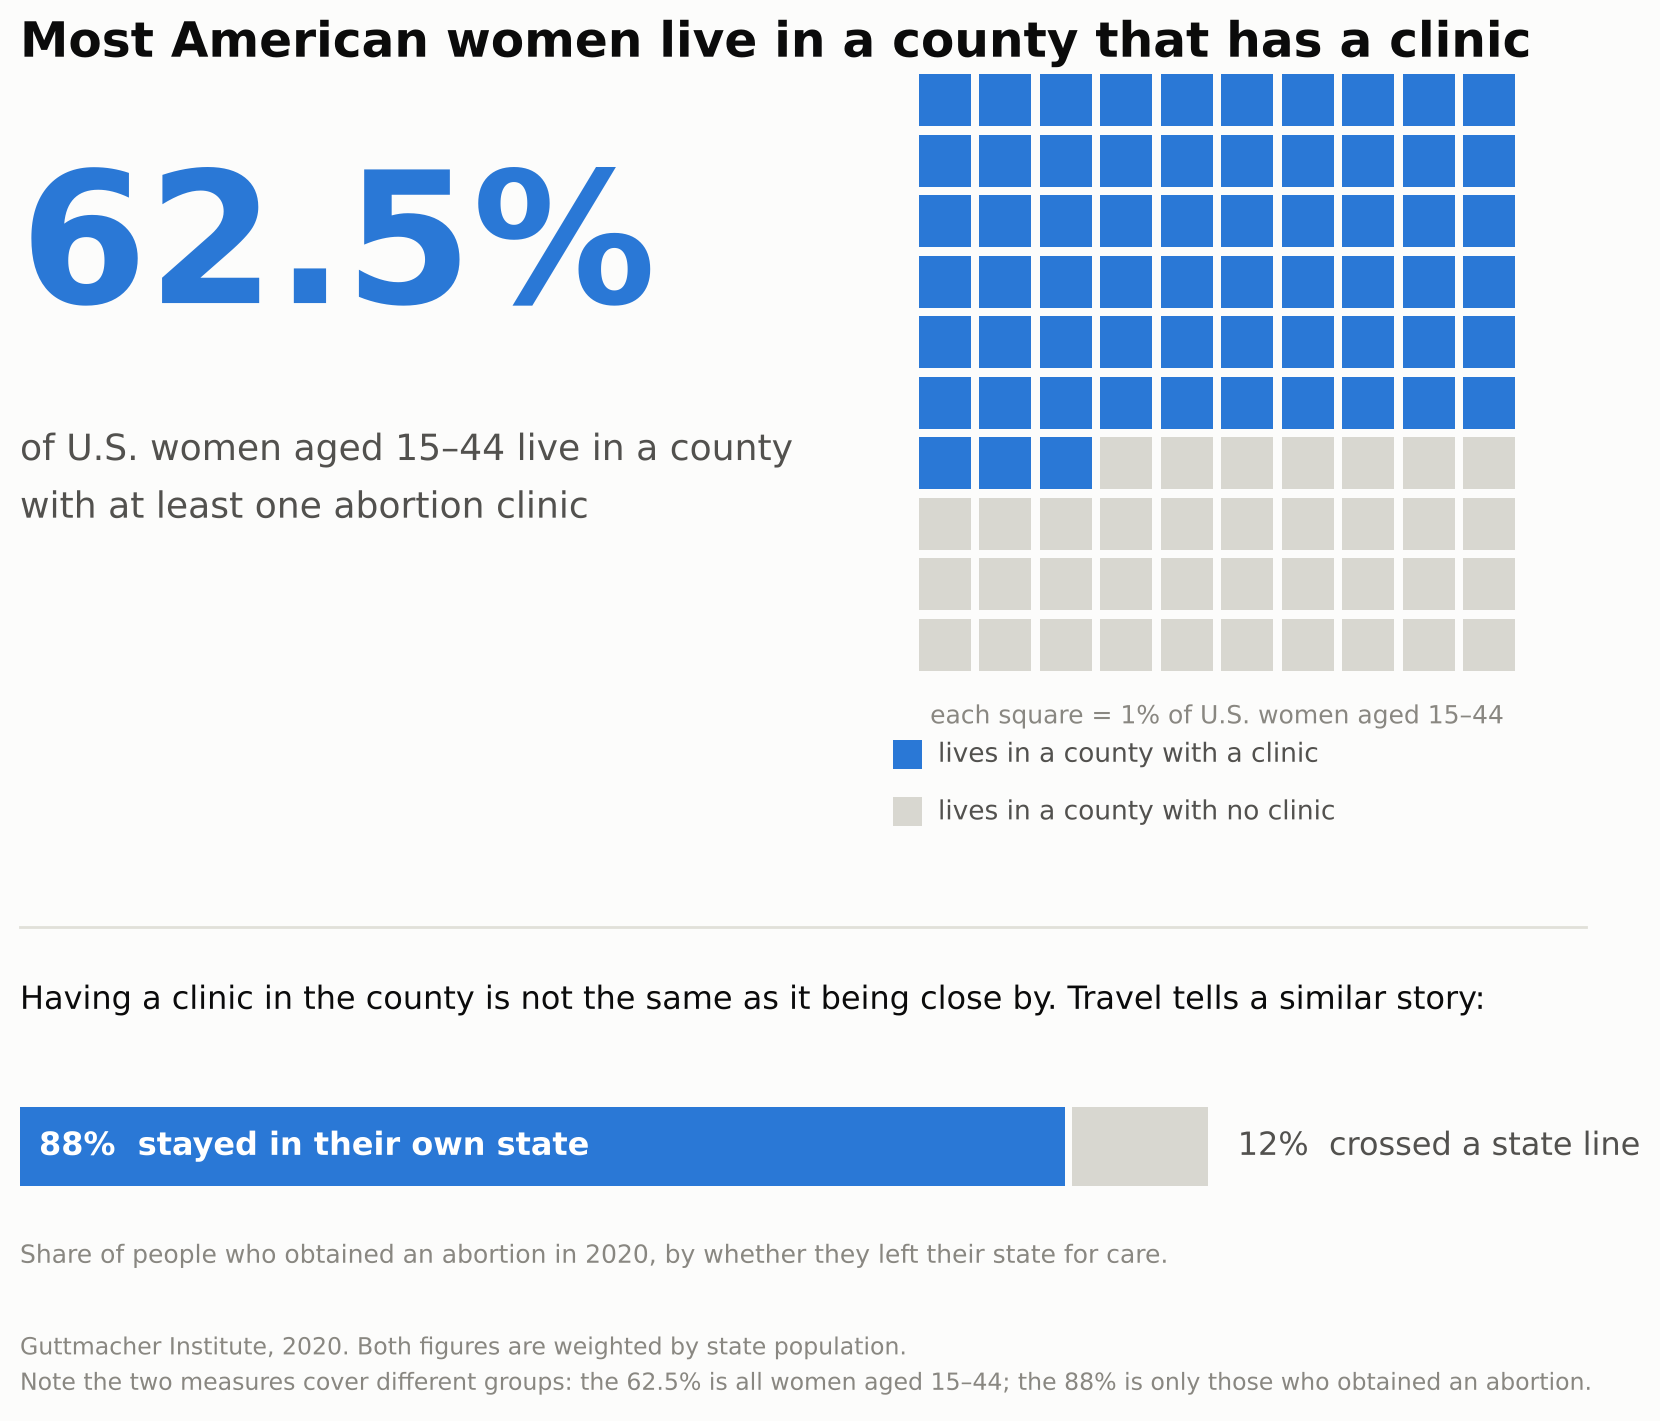
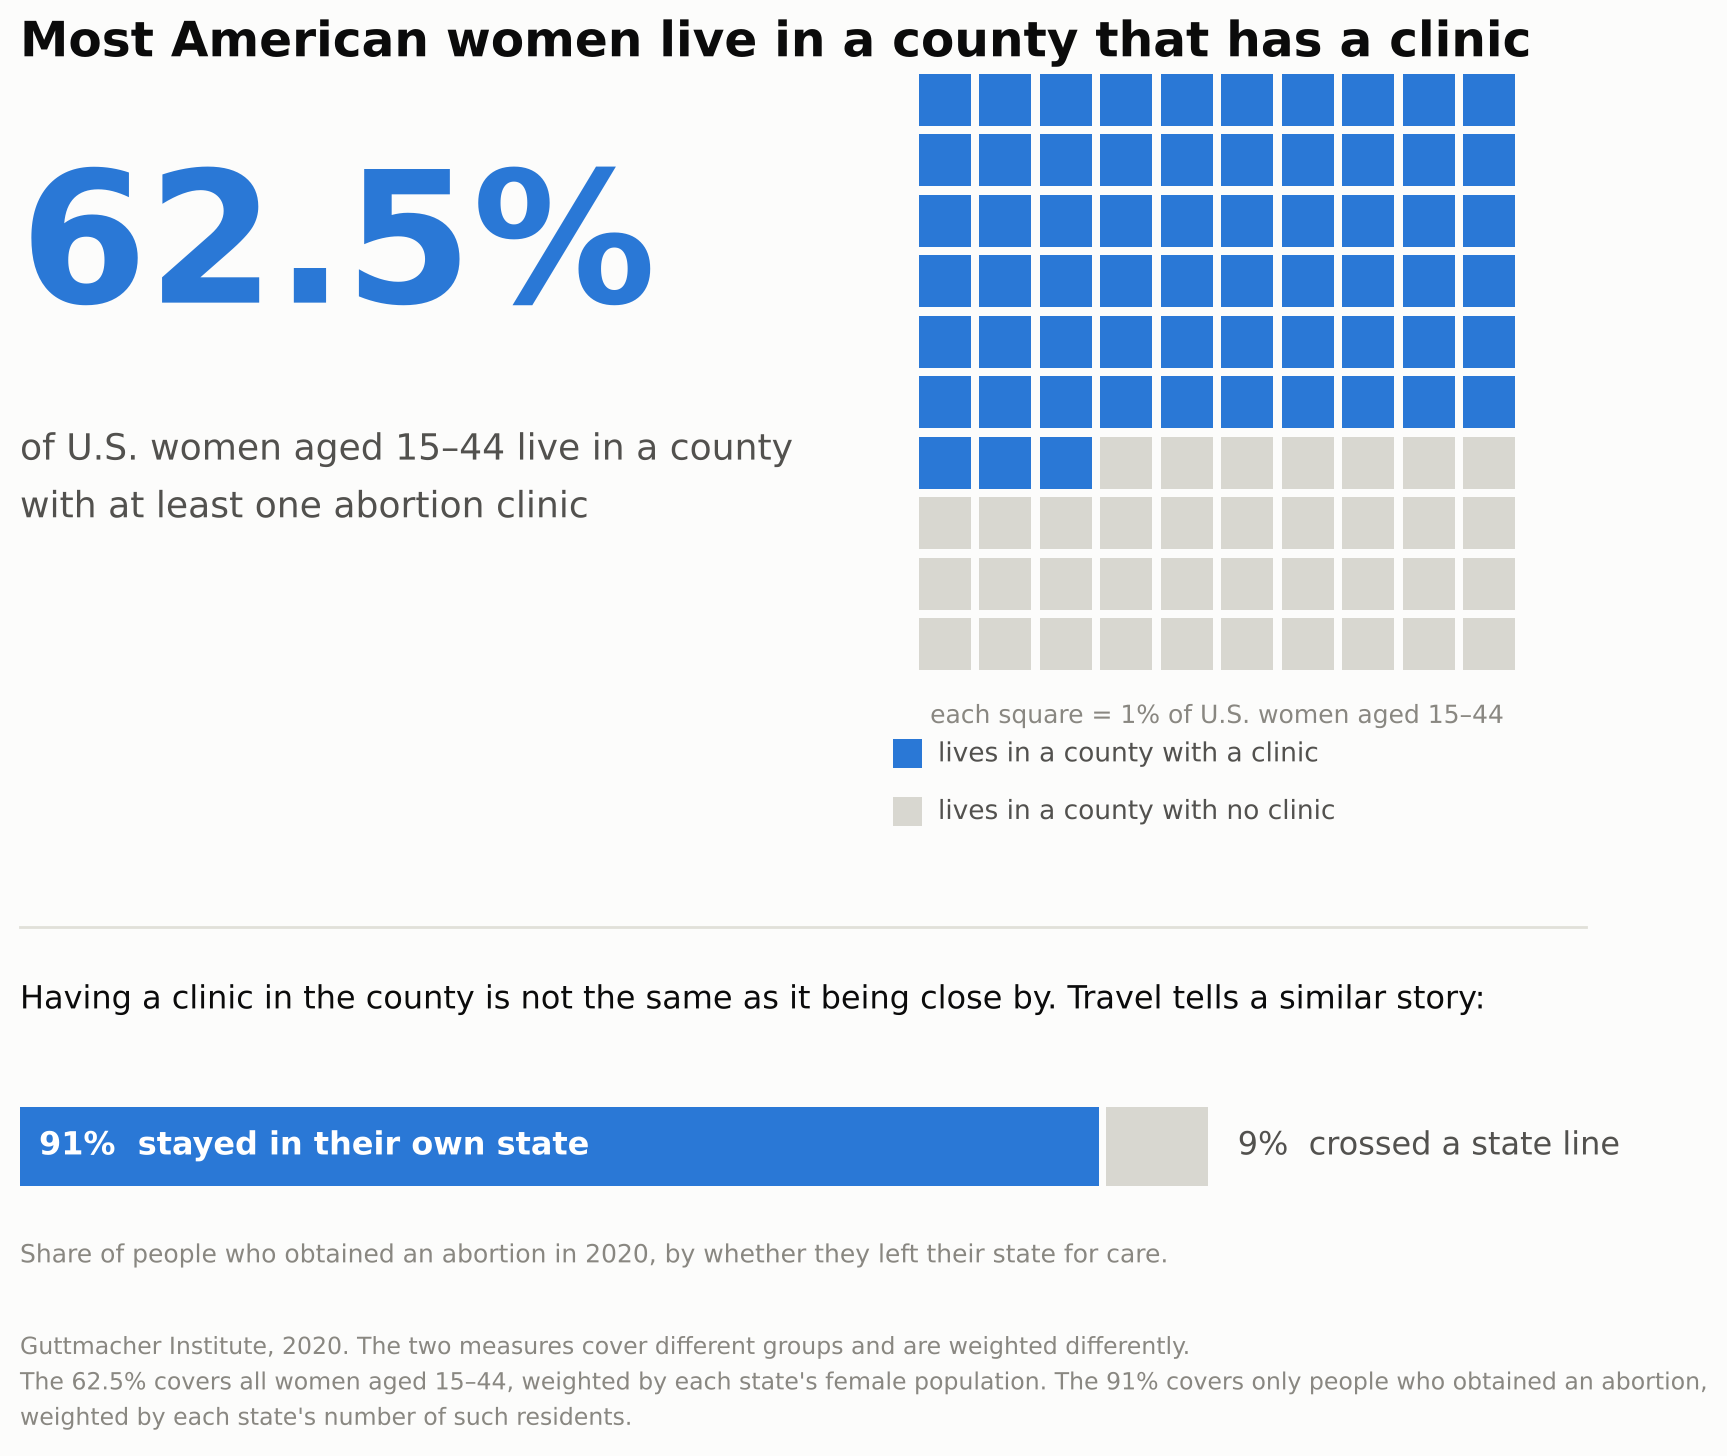
fix

diff --git a/project2/index.html b/project2/index.html
@@ -206,79 +206,16 @@
                 <h3>FOR the Proposition</h3>
 
                 <figure>
-                    <img
-                        src="pro_map.png"
-                        alt="Choropleth map of the United States shaded by the percentage of each state's counties that have no abortion clinic in 2020. Most states are dark red, in the 90 percent or higher band."
-                    />
-                    <figcaption>
-                        <strong>Most of America has no abortion clinic.</strong>
-                        Percentage of each state's counties with no known
-                        abortion clinic in 2020. In the average state, 78% of
-                        counties have none. Source: Guttmacher Institute, 2020.
-                    </figcaption>
+                    <img src="IMAGE_FILENAME" alt="" />
+                    <figcaption>BRIEF CAPTION HERE.</figcaption>
                 </figure>
 
                 <p>Design Decisions and Rationale:</p>
 
-                <div class="todo">
-                    <strong>Fei — please confirm or rewrite these five.</strong>
-                    They are drafted from the checkpoint write-up and the scores
-                    are a starting point. The rubric asks each decision to say
-                    what you considered and rejected, which only you can supply.
-                </div>
-
-                <ul class="decisions">
-                    <li>
-                        <strong>Counting counties rather than women</strong>
-                        <span class="score">−1.5</span><br />
-                        The map shows the share of each state's counties with no
-                        clinic. Most counties are rural and thinly populated
-                        while clinics sit in cities, so counting counties
-                        produces 78% where counting women aged 15–44 produces
-                        37.5%. Both figures are in the dataset; this one was
-                        chosen because it is the larger. The against side made
-                        the opposite choice from the same two columns.
-                    </li>
-                    <li>
-                        <strong>Map area as the encoding</strong>
-                        <span class="score">−1.5</span><br />
-                        A choropleth gives every state the visual weight of its
-                        land area. Montana, Wyoming and the Dakotas dominate the
-                        image despite holding very few people, while small,
-                        populous states with good access (Connecticut, New
-                        Jersey, Rhode Island) are too small to read and had to
-                        be listed off to the side. A cartogram scaled by
-                        population would have shown the opposite impression.
-                    </li>
-                    <li>
-                        <strong>Red sequential colour scale</strong>
-                        <span class="score">−1</span><br />
-                        Darker red marks a higher share of counties without a
-                        clinic. Red reads as danger or warning rather than as a
-                        neutral magnitude, so the map feels like an alarm before
-                        any number is read.
-                    </li>
-                    <li>
-                        <strong>Headline wording</strong>
-                        <span class="score">−2</span><br />
-                        "Most of America has no abortion clinic" claims more
-                        than the data shows. The 78% is an unweighted mean of 51
-                        state percentages — not a national share of counties,
-                        and certainly not a share of people. The subtitle states
-                        the real measure, but the headline is what most readers
-                        take away.
-                    </li>
-                    <li>
-                        <strong>Per-state value labels and a binned legend</strong>
-                        <span class="score">+2</span><br />
-                        Every state carries its own percentage and the legend
-                        names explicit ranges, so a reader can check any
-                        individual state instead of estimating from colour.
-                        States too small to label are listed beside the map so
-                        none are silently dropped. This was added after feedback
-                        that the colour scheme alone made states
-                        indistinguishable.
-                    </li>
+                <ul>
+                    <li>RATIONALE_1</li>
+                    <li>RATIONALE_2</li>
+                    <li>RATIONALE_3</li>
                 </ul>
             </section>
 
@@ -288,7 +225,7 @@
                 <figure>
                     <img
                         src="con_hero.png"
-                        alt="A large figure reading 62.5 percent beside a grid of 100 squares, 63 of them filled blue, showing the share of U.S. women aged 15 to 44 who live in a county with at least one abortion clinic. Below, a bar shows 88 percent of people who obtained an abortion in 2020 stayed in their own state and 12 percent crossed a state line."
+                        alt="A large figure reading 62.5 percent beside a grid of 100 squares, 63 of them filled blue, showing the share of U.S. women aged 15 to 44 who live in a county with at least one abortion clinic. Below, a bar shows 91 percent of people who obtained an abortion in 2020 stayed in their own state and 9 percent crossed a state line."
                     />
                     <figcaption>
                         <strong
@@ -298,7 +235,7 @@
                         Among U.S. women aged 15–44, 62.5% live in a county with
                         at least one abortion clinic, weighted by each state's
                         female population across the 50 states and DC. Below, of
-                        the people who obtained an abortion in 2020, 88% did so
+                        the people who obtained an abortion in 2020, 91% did so
                         without leaving their state. Source: Guttmacher
                         Institute, 2020.
                     </figcaption>
@@ -380,13 +317,20 @@
                         same as "a clinic close to me." We rewrote the headline
                         to say literally what the data says, and rather than drop
                         the question we answered it with the one behavioural
-                        column available: 88% of people who obtained an abortion
-                        in 2020 did so without crossing a state line. We also
-                        flag in the figure that the two measures cover different
-                        groups — all women aged 15–44 for the 62.5%, only those
-                        who obtained an abortion for the 88% — because sliding
-                        between two populations inside one figure would otherwise
-                        be a fourth deceptive move.
+                        column available: 91% of people who obtained an abortion
+                        in 2020 did so without crossing a state line. Our first
+                        attempt at this number weighted the travel column by each
+                        state's female population and got 88%; that is the wrong
+                        denominator, because the column is a share of the people
+                        who obtained an abortion, not of all women. Re-weighting
+                        by that count gives 91%, which matches Guttmacher's own
+                        published finding that nearly one in ten people travelled
+                        across state lines. We also flag in the figure that the
+                        two measures cover different groups and are weighted
+                        differently — all women aged 15–44 for the 62.5%, only
+                        those who obtained an abortion for the 91% — because
+                        sliding between two populations inside one figure would
+                        otherwise be a fourth deceptive move.
                     </li>
                 </ul>
             </section>

diff --git a/Alina/make_con_chart.py b/Alina/make_con_chart.py
@@ -17,7 +17,10 @@ plt.rcParams.update({"font.family": "DejaVu Sans", "figure.facecolor": SURFACE,
 df = pd.read_csv("abortion_clean.csv")
 w = df.women_15_44_2020
 pct_with = 100 - (df.pct_women_no_clinic_2020 * w).sum() / w.sum()
-pct_instate = 100 - (df.pct_traveled_out_of_state_2020 * w).sum() / w.sum()
+# The travel column is a share OF RESIDENTS WHO OBTAINED AN ABORTION, so it is
+# weighted by that count, not by the female population.
+ab = df.abortions_residence_2020
+pct_instate = 100 - (df.pct_traveled_out_of_state_2020 * ab).sum() / ab.sum()
 
 
 def swatch(fig, x, y, color, label, size=0.016):
@@ -79,9 +82,11 @@ def build(path="con_1_hero.png"):
              fontsize=9, color=MUTED, va="top")
 
     fig.text(0.065, 0.045,
-             "Guttmacher Institute, 2020. Both figures are weighted by state population.\n"
-             "Note the two measures cover different groups: the 62.5% is all women aged 15–44; "
-             "the 88% is only those who obtained an abortion.",
+             "Guttmacher Institute, 2020. The two measures cover different groups and are "
+             "weighted differently.\n"
+             "The 62.5% covers all women aged 15\u201344, weighted by each state's female "
+             "population. The " + f"{pct_instate:.0f}" + "% covers only people who obtained an "
+             "abortion,\nweighted by each state's number of such residents.",
              fontsize=8.5, color=MUTED, va="top", linespacing=1.5)
 
     fig.savefig(path, dpi=200, bbox_inches="tight")

diff --git a/Alina/con_decisions.md b/Alina/con_decisions.md
@@ -7,7 +7,7 @@ Chart file: `con_1_hero.png` · Script: `make_con_chart.py`
 > **Most American women live in a county that has a clinic.** Among U.S. women aged
 > 15–44, 62.5% live in a county with at least one abortion clinic, weighted by each
 > state's female population across the 50 states and DC. Below, of the people who
-> obtained an abortion in 2020, 88% did so without leaving their state.
+> obtained an abortion in 2020, 91% did so without leaving their state.
 > Source: Guttmacher Institute, 2020.
 
 ## Design decisions
@@ -57,11 +57,16 @@ and the legend read "no clinic **nearby**." Feedback pointed out that both words
 travel distance, which this dataset does not measure at all — a county can be larger
 than a small state, so "a clinic somewhere in my county" is not the same as "a clinic
 close to me." We rewrote the headline to say literally what the data says, and rather
-than drop the question we answered it with the one behavioural column available: 88% of
-people who obtained an abortion in 2020 did so without crossing a state line. We also
-flag in the figure that the two measures cover different groups — all women aged 15–44
-for the 62.5%, only those who obtained an abortion for the 88% — because sliding
-between two populations inside one figure would otherwise be a fourth deceptive move.
+than drop the question we answered it with the one behavioural column available: 91% of
+people who obtained an abortion in 2020 did so without crossing a state line. Our first
+attempt at this number weighted the travel column by each state's female population and
+got 88%; that is the wrong denominator, because the column is a share of the people who
+obtained an abortion, not of all women. Re-weighting by that count gives 91%, which
+matches Guttmacher's own published finding that nearly one in ten people travelled
+across state lines. We also flag in the figure that the two measures cover different
+groups and are weighted differently — all women aged 15–44 for the 62.5%, only those who
+obtained an abortion for the 91% — because sliding between two populations inside one
+figure would otherwise be a fourth deceptive move.
 
 ### Unit chart form — *(supporting note, not a separate decision)*
 
